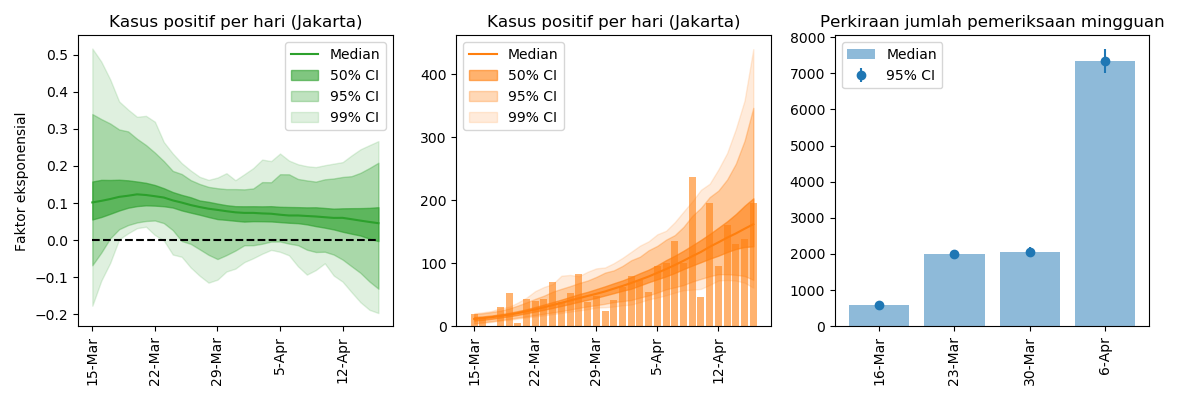
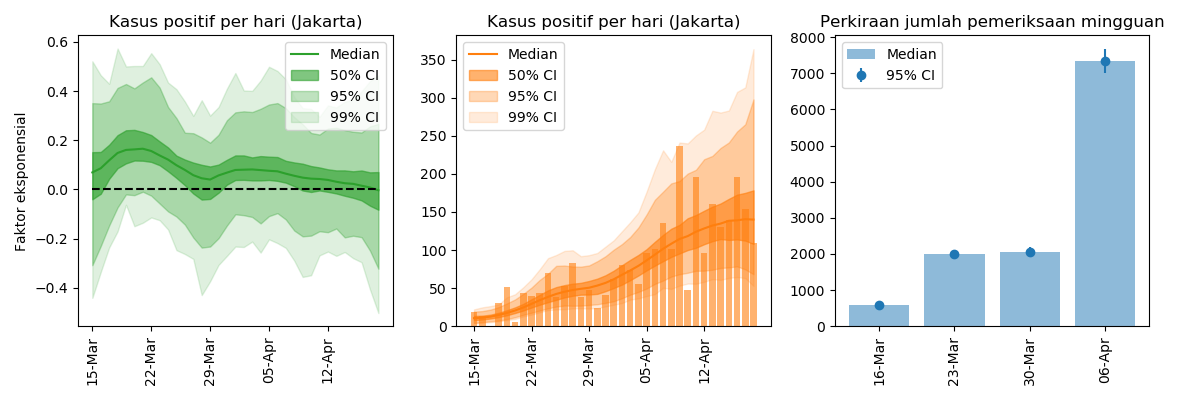
Update daily

diff --git a/idcovid19.md b/idcovid19.md
@@ -8,7 +8,7 @@ permalink: /idcovid19/
 ## Apakah kurva penyebaran telah turun?
 
 Sumber data: [KawalCOVID19](https://kawalcovid19.id/)<br/>
-Diperbarui pada: 17/04/2020
+Diperbarui pada: 18/04/2020
 
 #### Indonesia
 
